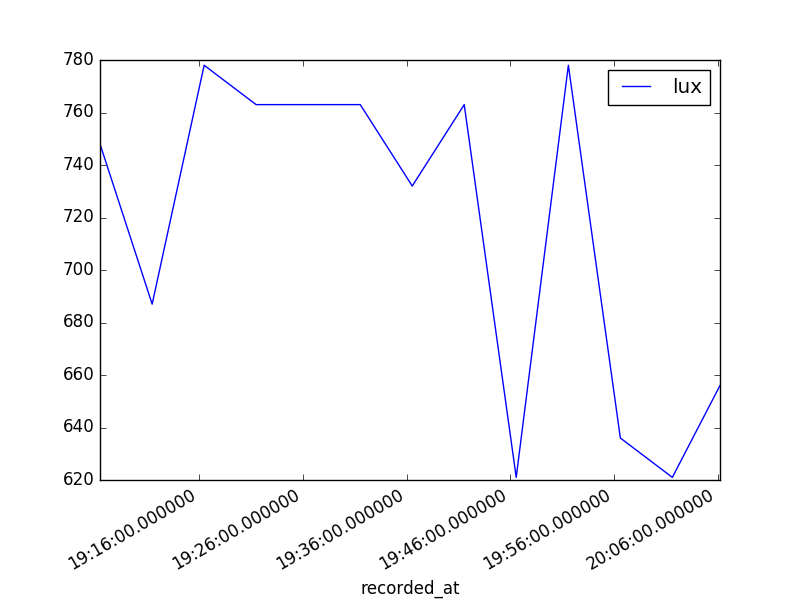
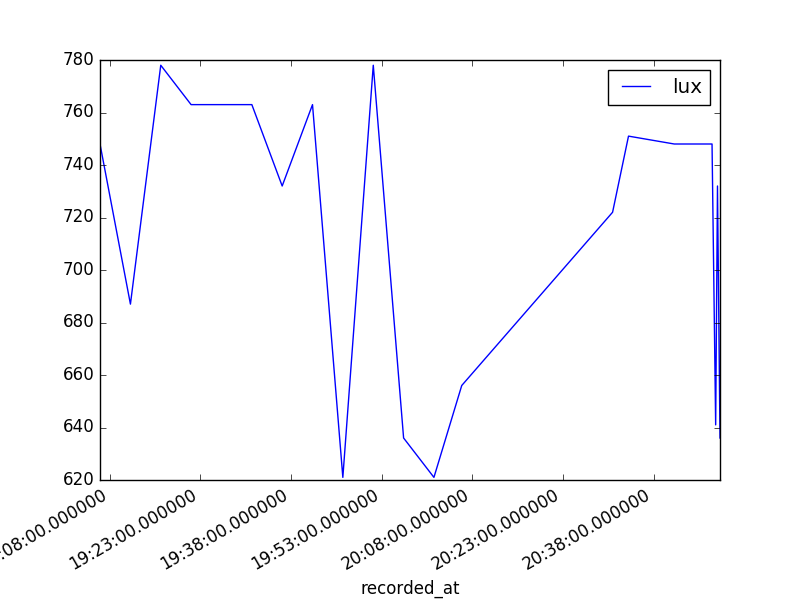
graph

diff --git a/worker.py b/worker.py
@@ -10,6 +10,10 @@ f = open("database.yml", 'r')
 db = yaml.load(f)
 f.close()
 
+import pandas as pd
+import matplotlib as plt
+plt.use('Agg')
+
 from datetime import datetime
 from multiprocessing import Process, Queue, Event
 
@@ -20,9 +24,9 @@ tsl = TSL2561()
 INTERVAL_SEC = 60 * 5
 
 ##############################
-### Sub processes          ###
+### TSL2561Logger Class
 ##############################
-class SubProcess(object) :
+class TSL2561Logger(object) :
 
     def __init__(self) :
         self.first = 0
@@ -41,23 +45,38 @@ class SubProcess(object) :
         lux = tsl.calculateLux(full, infrared)
         return lux
 
-    def saveLux(self):
-        with oursql.connect(
+    def saveLuxData(self):
+        conn = oursql.connect(
                 host=db["host"],
                 port=db["port"],
                 db=db["name"],
                 user=db["user"],
-                passwd=db["pass"]).cursor() as cur:
+                passwd=db["pass"])
+        self.saveLux2Database(conn)
+        self.saveLux2Graph(conn)
 
-            now = datetime.now().strftime("%Y/%m/%d %H:%M:%S")
-            lux = str(self.getLux())
+    def saveLux2Graph(self,conn):
+        cur = conn.cursor()
 
-            sql = "insert into " + db["name"] +".luxes" \
-                    " (recorded_at, lux, created_at, updated_at)" \
-                    " values" \
-                    " ('"+now+"',"+lux+",'"+now+"','"+now+"')"
-            res = cur.execute(sql)
-        return res
+        sql = "select recorded_at, lux from luxes order by recorded_at desc limit 288"
+
+        df = pd.read_sql(sql,conn)
+
+        df.plot(x='recorded_at')
+        plt.pyplot.savefig("luxes.png")
+
+    def saveLux2Database(self,conn):
+        cur = conn.cursor()
+
+        now = datetime.now().strftime("%Y/%m/%d %H:%M:%S")
+        lux = str(self.getLux())
+
+        sql = "insert into " + db["name"] +".luxes" \
+                " (recorded_at, lux, created_at, updated_at)" \
+                " values" \
+                " ('"+now+"',"+lux+",'"+now+"','"+now+"')"
+
+        cur.execute(sql)
 
     def run(self, inc_q, stop_flag) :
 
@@ -77,7 +96,7 @@ class SubProcess(object) :
             # debug print
             print( datetime.now().strftime("%Y/%m/%d %H:%M:%S") + ": " + str(self.getLux()) )
 
-            self.saveLux()
+            self.saveLuxData()
 
             time.sleep(INTERVAL_SEC)
 
@@ -85,7 +104,7 @@ class SubProcess(object) :
 
 
 ##############################
-### Main                   ###
+### Main
 ##############################
 if __name__ == '__main__' :
 
@@ -101,7 +120,7 @@ if __name__ == '__main__' :
 
 
 		### Sub processes
-		sub1 = SubProcess()
+		sub1 = TSL2561Logger()
 
 		sub1_process = Process(target = sub1.run, args = (inc_q, stop_flag))
 
